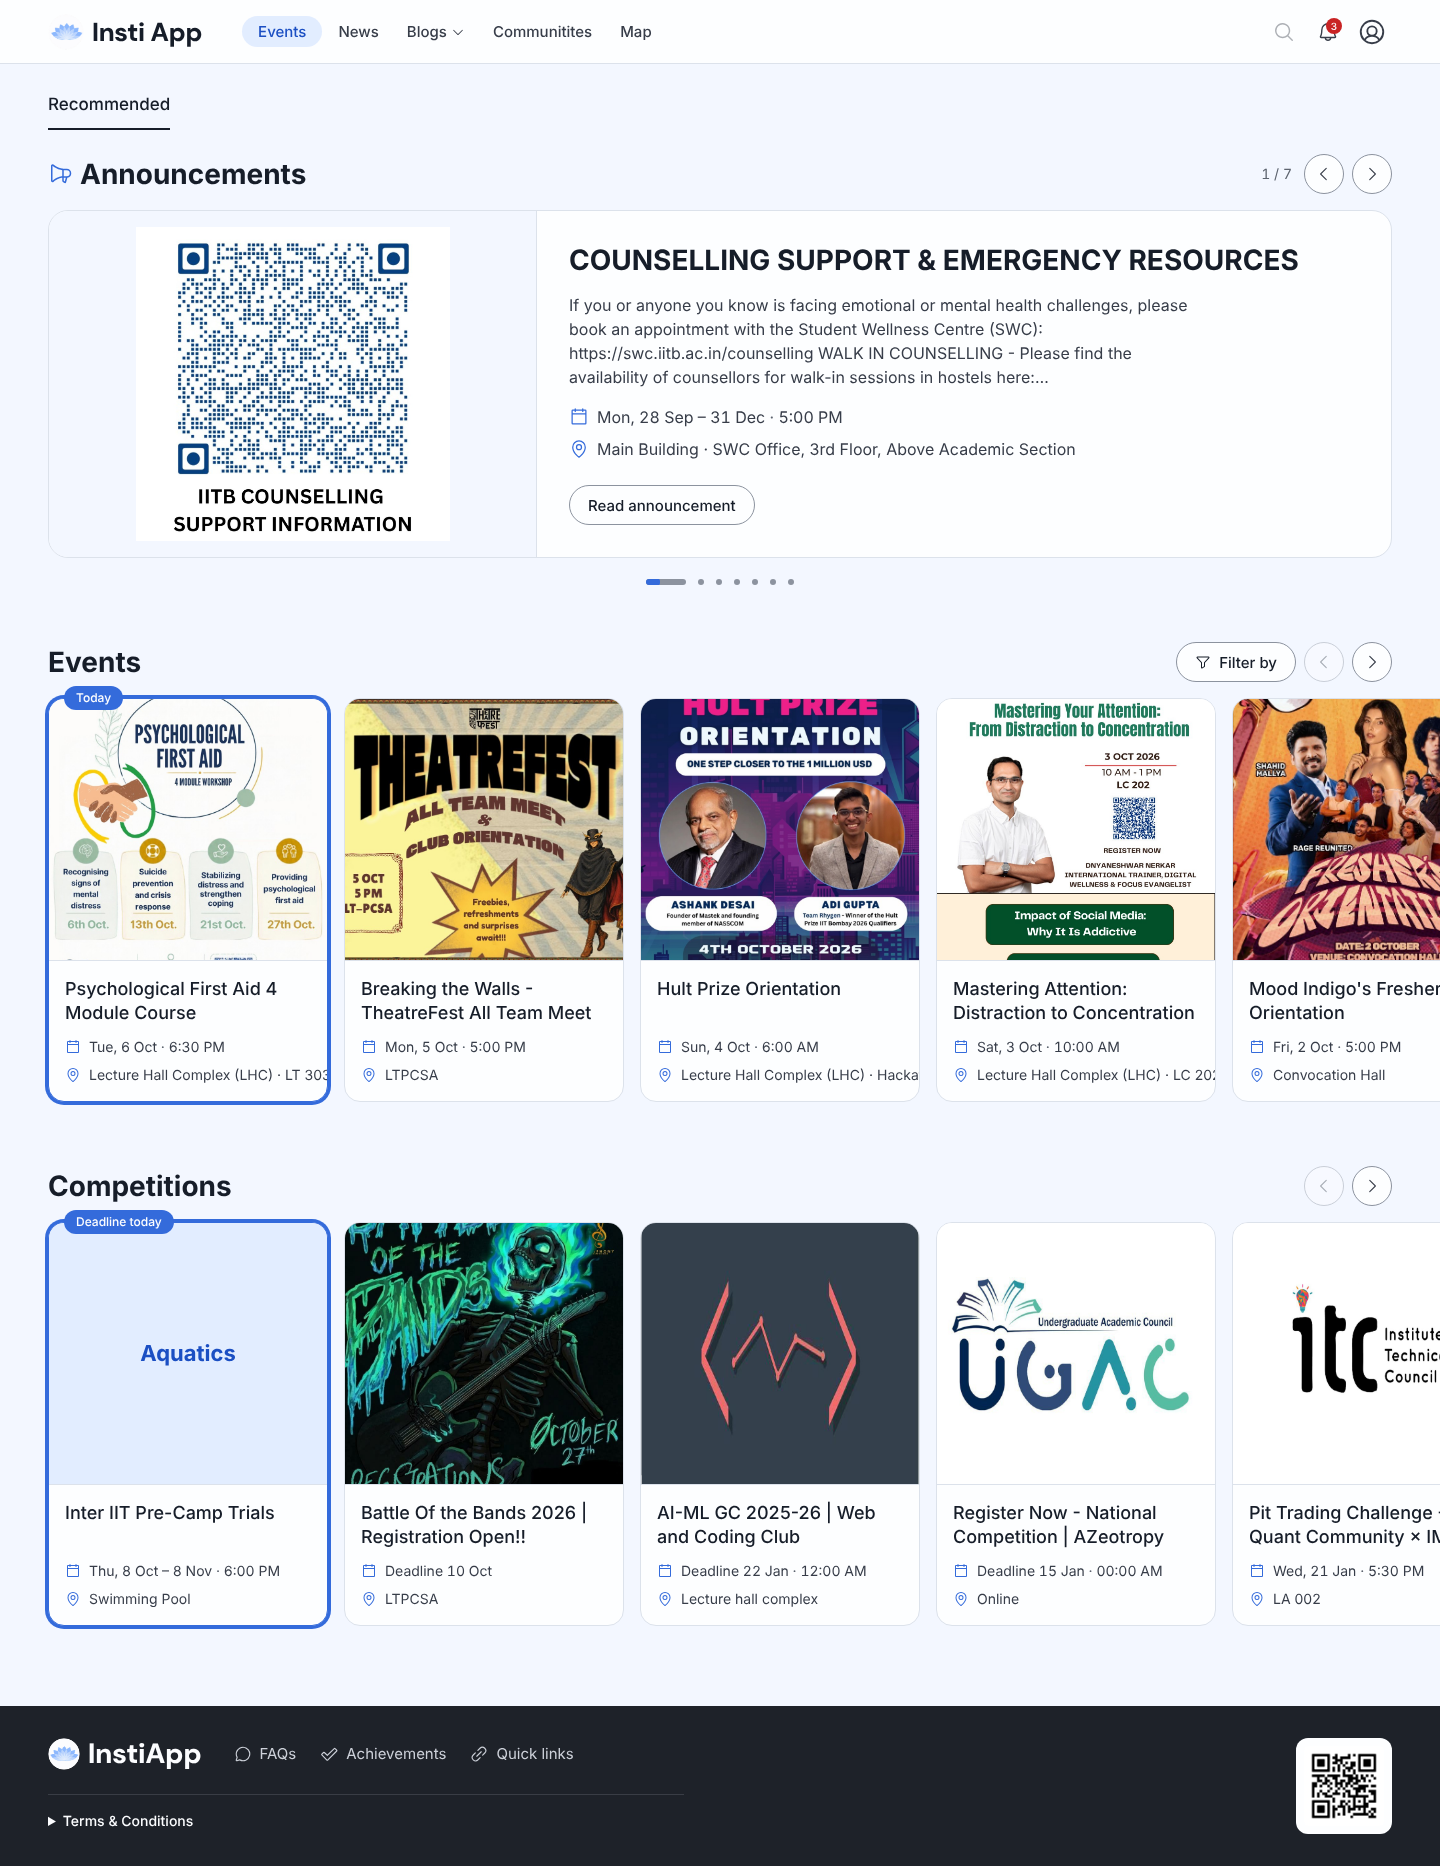
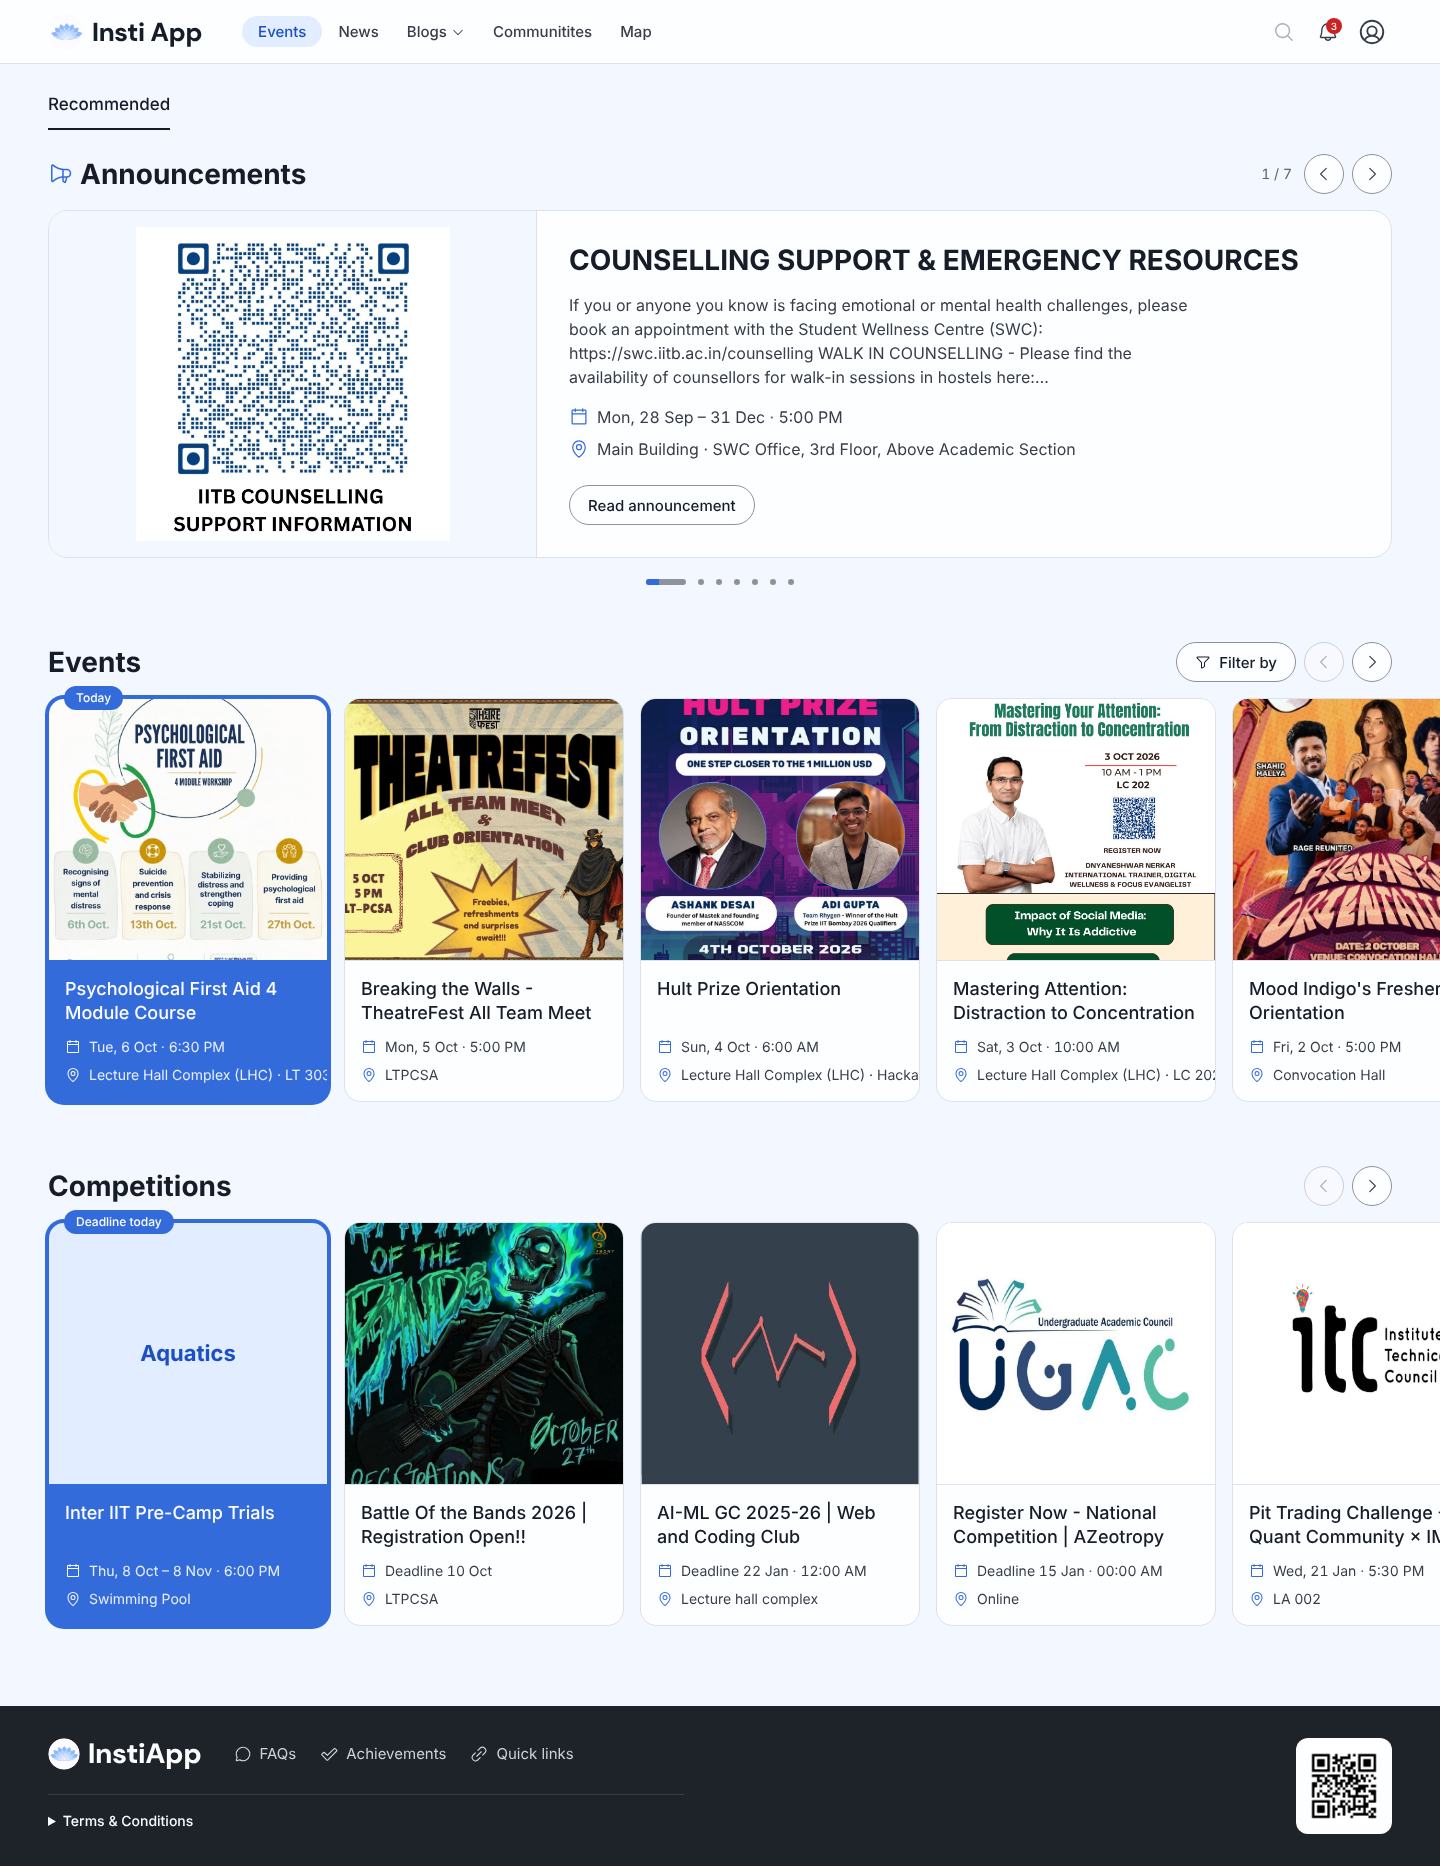
Fill called-out cards with the accent blue
Card body switches to the accent fill with white title, meta text and
icons (scoped token overrides via .on-accent).

Claude-Session: https://claude.ai/code/session_01UGSq7D7wJQbmhDDKoKNt35

Changed region(s): [[0.0312, 0.7771, 0.25, 0.8703], [0.0312, 0.4973, 0.25, 0.5906]]

diff --git a/src/components/Browse.tsx b/src/components/Browse.tsx
@@ -12,13 +12,13 @@ export function EventCard({ e }: { e: InstiEvent }) {
   const card = (
     <Link
       to={`/event/${e.id}`}
-      className={`card-hover group flex w-[280px] shrink-0 snap-start flex-col overflow-hidden rounded-card border bg-surface ${
-        callout ? 'border-accent ring-[3px] ring-accent' : 'border-rule'
+      className={`card-hover group flex w-[280px] shrink-0 snap-start flex-col overflow-hidden rounded-card border ${
+        callout ? 'border-accent bg-accent ring-[3px] ring-accent' : 'border-rule bg-surface'
       }`}
       data-testid="event-card"
     >
-      <Poster src={p.src} label={hostName(e)} className="aspect-[415/391] w-full border-b border-rule" />
-      <div className="flex flex-1 flex-col gap-3 p-4">
+      <Poster src={p.src} label={hostName(e)} className={`aspect-[415/391] w-full border-b ${callout ? 'border-accent' : 'border-rule'}`} />
+      <div className={`flex flex-1 flex-col gap-3 p-4 ${callout ? 'on-accent' : ''}`}>
         <h3 className="line-clamp-2 text-md font-medium leading-6">{e.title}</h3>
         <EventMeta e={e} className="mt-auto" />
       </div>

diff --git a/src/index.css b/src/index.css
@@ -86,6 +86,9 @@
   @media (hover: hover) { .card-hover:hover { box-shadow: var(--shadow-hover); } }
   .card-hover:active { transform: translateY(1px); }
 
+  /* Text and icons sitting on an accent fill (called-out feed cards). */
+  .on-accent { --color-ink: var(--color-accent-ink); --color-ink-2: oklch(99.5% 0.004 262 / 0.9); --color-muted: oklch(99.5% 0.004 262 / 0.75); --color-accent: var(--color-accent-ink); }
+
   .scroll-row { scrollbar-width: thin; scrollbar-color: var(--color-rule-strong) transparent; }
 }
 
